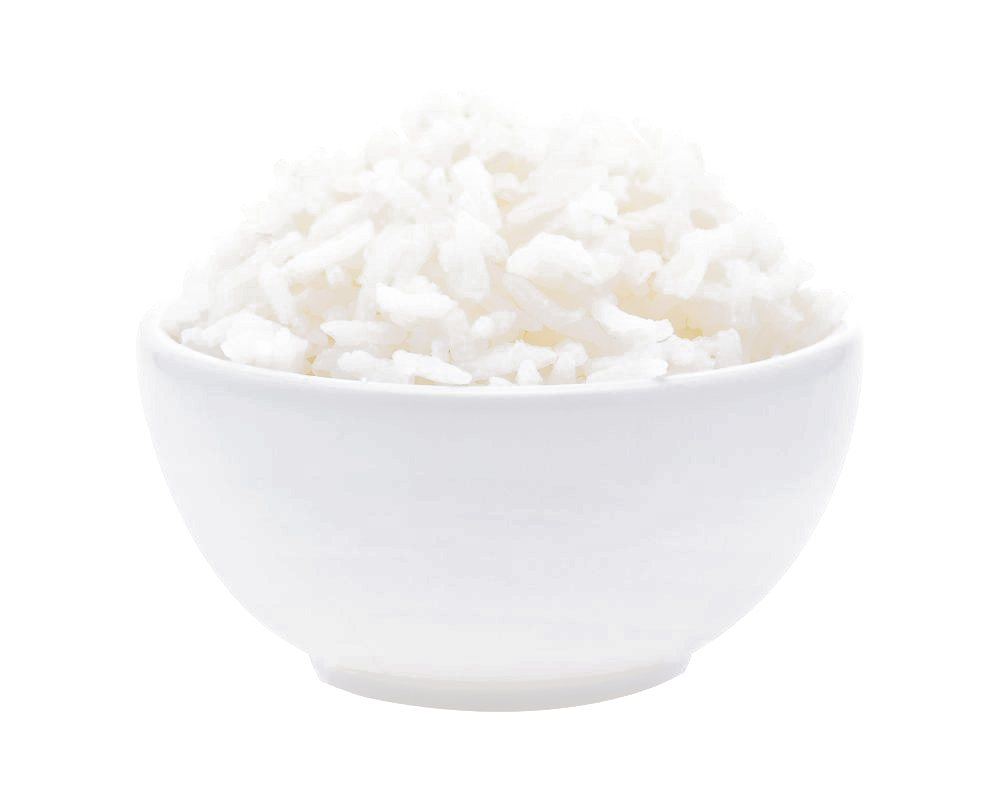
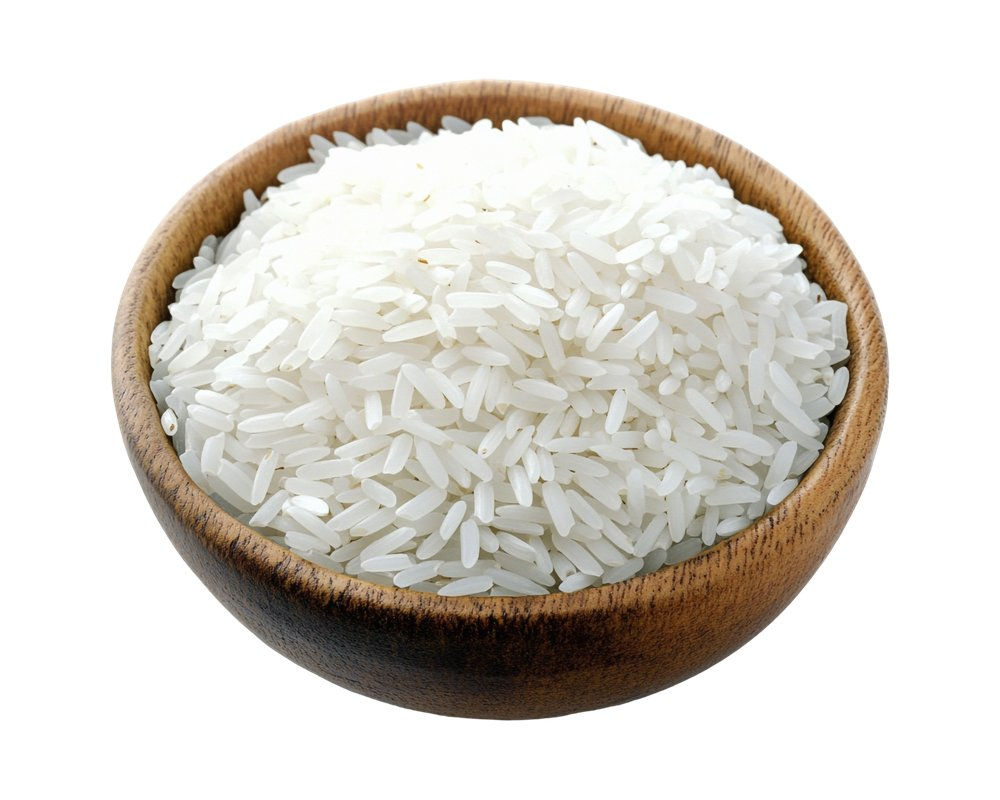
Foods: new photo for Rice
A wooden bowl of white rice, cut out from the Magnific free PSD by tohamina
(picked by the app owner; credit added) and placed on white like the other
single-food photos.

Claude-Session: https://claude.ai/code/session_01Hj6QJBTm6LNjTnyKhFQZB8

diff --git a/docs/photo-credits.md b/docs/photo-credits.md
@@ -251,49 +251,49 @@ Bundled in `assets/images/foods/` and registered in
 `src/features/foods/food-photos.ts`. Single foods on white, licensed through the
 app owner's paid Magnific (formerly Freepik) account and fetched with its API.
 
-| Photo                 | Source                           | Author           | Link                                                                                                                                                          | License                  | Added      |
-| --------------------- | -------------------------------- | ---------------- | ------------------------------------------------------------------------------------------------------------------------------------------------------------- | ------------------------ | ---------- |
-| food-sweet-potato     | Magnific (magnific.com), via API | New Africa       | https://www.magnific.com/premium-photo/fresh-raw-sweet-potato-isolated-white_416907908.htm                                                                    | Magnific Premium license | 2026-10-13 |
-| food-carrot           | Magnific (magnific.com), via API | rakibofficealbd  | https://www.magnific.com/premium-photo/single-fresh-orange-carrot-isolated-white-background-healthy-food-photography_429212493.htm                            | Magnific Premium license | 2026-10-13 |
-| food-broccoli         | Magnific (magnific.com), via API | irinafischer     | https://www.magnific.com/premium-photo/broccoli-green-florets-photography-isolated-white-background-clipping-path-original-shadowxa_374081813.htm             | Magnific Premium license | 2026-10-13 |
-| food-peas             | Magnific (magnific.com), via API | pakhnyushchyy    | https://www.magnific.com/premium-photo/peas_36433158.htm                                                                                                      | Magnific Premium license | 2026-10-13 |
-| food-spinach          | Magnific (magnific.com), via API | pixel-shot.com   | https://www.magnific.com/premium-photo/fresh-spinach-leaves-white-background_38929601.htm                                                                     | Magnific Premium license | 2026-10-13 |
-| food-zucchini         | Magnific (magnific.com), via API | pakhnyushchyy    | https://www.magnific.com/premium-photo/cheap-restaurant_37488885.htm                                                                                          | Magnific Premium license | 2026-10-13 |
-| food-butternut-squash | Magnific (magnific.com), via API | gorielov         | https://www.magnific.com/premium-photo/pumpkin_40350147.htm                                                                                                   | Magnific Premium license | 2026-10-13 |
-| food-green-beans      | Magnific (magnific.com), via API | pixel-shot.com   | https://www.magnific.com/premium-photo/french-beans-isolated-white_88016321.htm                                                                               | Magnific Premium license | 2026-10-13 |
-| food-cauliflower      | Magnific (magnific.com), via API | pixel-shot.com   | https://www.magnific.com/premium-photo/fresh-cauliflower-isolated-white_423805386.htm                                                                         | Magnific Premium license | 2026-10-13 |
-| food-kale             | Magnific (magnific.com), via API | kufotos          | https://www.magnific.com/premium-photo/fresh-cale-lettuce-leaf-white-isolated-background-vegetarian-dietary-healthy-food-product_24766655.htm                 | Magnific Premium license | 2026-10-13 |
-| food-parsnips         | Magnific (magnific.com), via API | picturepartners  | https://www.magnific.com/premium-photo/whole-fresh-parsnips-pastinaca-sativa-isolated-white-background_53376391.htm                                           | Magnific Premium license | 2026-10-13 |
-| food-haricots-verts   | Magnific (magnific.com), via API | AI Artwork       | https://www.magnific.com/premium-photo/fresh-green-beans-thin-green-isolated-white-background_250224627.htm                                                   | Magnific Premium license | 2026-10-13 |
-| food-avocado          | Magnific (magnific.com), via API | filistimlyanin   | https://www.magnific.com/premium-photo/collection-avocados-isolated-white-background_51104783.htm                                                             | Magnific Premium license | 2026-10-13 |
-| food-banana           | Magnific (magnific.com), via API | photolink1       | https://www.magnific.com/premium-photo/bananas_387553670.htm                                                                                                  | Magnific Premium license | 2026-10-13 |
-| food-apple            | Magnific (magnific.com), via API | dwianggastocks   | https://www.magnific.com/premium-photo/fresh-organic-red-apple-delicious-fruit-side-view-isolated-white-background-clipping-path_138953129.htm                | Magnific Premium license | 2026-10-13 |
-| food-pear             | Magnific (magnific.com), via API | pixel-shot.com   | https://www.magnific.com/premium-photo/ripe-pear-isolated-white_37377564.htm                                                                                  | Magnific Premium license | 2026-10-13 |
-| food-blueberries      | Magnific (magnific.com), via API | meimanlifestore  | https://www.magnific.com/premium-photo/blueberries-isolated-white-background_366319791.htm                                                                    | Magnific Premium license | 2026-10-13 |
-| food-strawberries     | Magnific (magnific.com), via API | a_a_88           | https://www.magnific.com/premium-photo/bunch-tasty-juicy-red-strawberries-amount-four-pieces-white-background_254496117.htm                                   | Magnific Premium license | 2026-10-13 |
-| food-mango            | Magnific (magnific.com), via API | Twenty20         | https://www.magnific.com/premium-photo/mango_35376035.htm                                                                                                     | Magnific Premium license | 2026-10-13 |
-| food-peach            | Magnific (magnific.com), via API | Azur             | https://www.magnific.com/premium-photo/whole-pitted-peach-with-bright-surface-white-background_272929017.htm                                                  | Magnific Premium license | 2026-10-13 |
-| food-cherries         | Magnific (magnific.com), via API | photolink1       | https://www.magnific.com/premium-photo/sweet-cherry-isolated-white_22342948.htm                                                                               | Magnific Premium license | 2026-10-13 |
-| food-prunes           | Magnific (magnific.com), via API | pakhnyushchyy    | https://www.magnific.com/premium-photo/dried-plum_39222936.htm                                                                                                | Magnific Premium license | 2026-10-13 |
-| food-egg              | Magnific (magnific.com), via API | driashkin        | https://www.magnific.com/premium-photo/four-chicken-eggs-white-background-largly_25925793.htm                                                                 | Magnific Premium license | 2026-10-13 |
-| food-chicken          | Magnific (magnific.com), via API | super            | https://www.magnific.com/premium-photo/raw-chicken-fillet-isolated-white-background-perfectly-retouched-full-depth-field-photo-top-view-flat-lay_25765086.htm | Magnific Premium license | 2026-10-13 |
-| food-beef             | Magnific (magnific.com), via API | Twenty20         | https://www.magnific.com/premium-photo/raw-beef-meat_35555577.htm                                                                                             | Magnific Premium license | 2026-10-13 |
-| food-turkey           | Magnific (magnific.com), via API | user6170755      | https://www.magnific.com/premium-photo/raw-whole-big-turkey-breast-fillet-high-quality-isolate-white-background_63024100.htm                                  | Magnific Premium license | 2026-10-13 |
-| food-salmon           | Magnific (magnific.com), via API | stokkete         | https://www.magnific.com/premium-photo/close-up-salmon-fillet_35865645.htm                                                                                    | Magnific Premium license | 2026-10-13 |
-| food-shrimp           | Magnific (magnific.com), via API | user25234940     | https://www.magnific.com/premium-photo/fresh-shrimp-prawn-isolated-white-background_26304187.htm                                                              | Magnific Premium license | 2026-10-13 |
-| food-lentils          | Magnific (magnific.com), via API | AndreyStar       | https://www.magnific.com/premium-photo/lentils-isolated-white-background_33230725.htm                                                                         | Magnific Premium license | 2026-10-13 |
-| food-black-beans      | Magnific (magnific.com), via API | da-ga            | https://www.magnific.com/premium-photo/black-beans-isolated-white-background_28852402.htm                                                                     | Magnific Premium license | 2026-10-13 |
-| food-tofu             | Magnific (magnific.com), via API | maryrkoch        | https://www.magnific.com/premium-photo/high-quality-tofu-block-with-small-cubes-isolated-white-background-perfect-vegan-veget_341404472.htm                   | Magnific Premium license | 2026-10-13 |
-| food-peanut-butter    | Magnific (magnific.com), via API | KSerg            | https://www.magnific.com/premium-photo/small-bowl-filled-with-smooth-peanut-butter-spread-isolated-white-background-highlighting_401110400.htm                | Magnific Premium license | 2026-10-13 |
-| food-almond-butter    | Magnific (magnific.com), via API | nugrahithaaditya | https://www.magnific.com/premium-photo/almond-butter-photo-white-isolated-background-ar-32-style-raw-v-6-job-id-d99d08bf58054929abcb26dd_270330255.htm        | Magnific Premium license | 2026-10-13 |
-| food-tahini           | Magnific (magnific.com), via API | AI Artwork       | https://www.magnific.com/premium-photo/yummy-tahini-isolated-white-background_301388773.htm                                                                   | Magnific Premium license | 2026-10-13 |
-| food-red-lentils      | Magnific (magnific.com), via API | fernatiroman     | https://www.magnific.com/premium-photo/small-pile-red-lentils-white-background_433510006.htm                                                                  | Magnific Premium license | 2026-10-13 |
-| food-infant-cereal    | Magnific (magnific.com), via API | pixel-shot.com   | https://www.magnific.com/premium-photo/bowl-with-baby-food-white-background_423593301.htm                                                                     | Magnific Premium license | 2026-10-13 |
-| food-oats             | Magnific (magnific.com), via API | Twenty20         | https://www.magnific.com/premium-photo/oatmeal-flakes_35436975.htm                                                                                            | Magnific Premium license | 2026-10-13 |
-| food-rice             | Magnific (magnific.com), via API | user25234940     | https://www.magnific.com/premium-photo/bowl-full-rice-isolated-white-background_19017643.htm                                                                  | Magnific Premium license | 2026-10-13 |
-| food-pasta            | Magnific (magnific.com), via API | bokodi           | https://www.magnific.com/premium-photo/penne-raw-pasta-isolated-white_27760809.htm                                                                            | Magnific Premium license | 2026-10-13 |
-| food-bread            | Magnific (magnific.com), via API | valkantina       | https://www.magnific.com/premium-photo/loaf-bread-isolated-white-background-piece-homemade-wheat-bread_248932962.htm                                          | Magnific Premium license | 2026-10-13 |
-| food-brown-rice       | Magnific (magnific.com), via API | Hashmi3          | https://www.magnific.com/premium-photo/delicious-bowl-cooked-brown-rice-white-background_294580597.htm                                                        | Magnific Premium license | 2026-10-13 |
-| food-quinoa           | Magnific (magnific.com), via API | voyager_human    | https://www.magnific.com/premium-photo/heap-organic-white-quinoa-healthy-eating-concept-top-view-isolated-white-background_238574260.htm                      | Magnific Premium license | 2026-10-13 |
-| food-yogurt           | Magnific (magnific.com), via API | auyobmasih-1     | https://www.magnific.com/premium-photo/bowl-creamy-white-yogurt-isolated-white-background_425866054.htm                                                       | Magnific Premium license | 2026-10-13 |
-| food-cheese           | Magnific (magnific.com), via API | mureli           | https://www.magnific.com/premium-photo/cheddar-cheese-white-background-ai-generated_41959263.htm                                                              | Magnific Premium license | 2026-10-13 |
+| Photo                 | Source                                                                                     | Author           | Link                                                                                                                                                          | License                                 | Added      |
+| --------------------- | ------------------------------------------------------------------------------------------ | ---------------- | ------------------------------------------------------------------------------------------------------------------------------------------------------------- | --------------------------------------- | ---------- |
+| food-sweet-potato     | Magnific (magnific.com), via API                                                           | New Africa       | https://www.magnific.com/premium-photo/fresh-raw-sweet-potato-isolated-white_416907908.htm                                                                    | Magnific Premium license                | 2026-10-13 |
+| food-carrot           | Magnific (magnific.com), via API                                                           | rakibofficealbd  | https://www.magnific.com/premium-photo/single-fresh-orange-carrot-isolated-white-background-healthy-food-photography_429212493.htm                            | Magnific Premium license                | 2026-10-13 |
+| food-broccoli         | Magnific (magnific.com), via API                                                           | irinafischer     | https://www.magnific.com/premium-photo/broccoli-green-florets-photography-isolated-white-background-clipping-path-original-shadowxa_374081813.htm             | Magnific Premium license                | 2026-10-13 |
+| food-peas             | Magnific (magnific.com), via API                                                           | pakhnyushchyy    | https://www.magnific.com/premium-photo/peas_36433158.htm                                                                                                      | Magnific Premium license                | 2026-10-13 |
+| food-spinach          | Magnific (magnific.com), via API                                                           | pixel-shot.com   | https://www.magnific.com/premium-photo/fresh-spinach-leaves-white-background_38929601.htm                                                                     | Magnific Premium license                | 2026-10-13 |
+| food-zucchini         | Magnific (magnific.com), via API                                                           | pakhnyushchyy    | https://www.magnific.com/premium-photo/cheap-restaurant_37488885.htm                                                                                          | Magnific Premium license                | 2026-10-13 |
+| food-butternut-squash | Magnific (magnific.com), via API                                                           | gorielov         | https://www.magnific.com/premium-photo/pumpkin_40350147.htm                                                                                                   | Magnific Premium license                | 2026-10-13 |
+| food-green-beans      | Magnific (magnific.com), via API                                                           | pixel-shot.com   | https://www.magnific.com/premium-photo/french-beans-isolated-white_88016321.htm                                                                               | Magnific Premium license                | 2026-10-13 |
+| food-cauliflower      | Magnific (magnific.com), via API                                                           | pixel-shot.com   | https://www.magnific.com/premium-photo/fresh-cauliflower-isolated-white_423805386.htm                                                                         | Magnific Premium license                | 2026-10-13 |
+| food-kale             | Magnific (magnific.com), via API                                                           | kufotos          | https://www.magnific.com/premium-photo/fresh-cale-lettuce-leaf-white-isolated-background-vegetarian-dietary-healthy-food-product_24766655.htm                 | Magnific Premium license                | 2026-10-13 |
+| food-parsnips         | Magnific (magnific.com), via API                                                           | picturepartners  | https://www.magnific.com/premium-photo/whole-fresh-parsnips-pastinaca-sativa-isolated-white-background_53376391.htm                                           | Magnific Premium license                | 2026-10-13 |
+| food-haricots-verts   | Magnific (magnific.com), via API                                                           | AI Artwork       | https://www.magnific.com/premium-photo/fresh-green-beans-thin-green-isolated-white-background_250224627.htm                                                   | Magnific Premium license                | 2026-10-13 |
+| food-avocado          | Magnific (magnific.com), via API                                                           | filistimlyanin   | https://www.magnific.com/premium-photo/collection-avocados-isolated-white-background_51104783.htm                                                             | Magnific Premium license                | 2026-10-13 |
+| food-banana           | Magnific (magnific.com), via API                                                           | photolink1       | https://www.magnific.com/premium-photo/bananas_387553670.htm                                                                                                  | Magnific Premium license                | 2026-10-13 |
+| food-apple            | Magnific (magnific.com), via API                                                           | dwianggastocks   | https://www.magnific.com/premium-photo/fresh-organic-red-apple-delicious-fruit-side-view-isolated-white-background-clipping-path_138953129.htm                | Magnific Premium license                | 2026-10-13 |
+| food-pear             | Magnific (magnific.com), via API                                                           | pixel-shot.com   | https://www.magnific.com/premium-photo/ripe-pear-isolated-white_37377564.htm                                                                                  | Magnific Premium license                | 2026-10-13 |
+| food-blueberries      | Magnific (magnific.com), via API                                                           | meimanlifestore  | https://www.magnific.com/premium-photo/blueberries-isolated-white-background_366319791.htm                                                                    | Magnific Premium license                | 2026-10-13 |
+| food-strawberries     | Magnific (magnific.com), via API                                                           | a_a_88           | https://www.magnific.com/premium-photo/bunch-tasty-juicy-red-strawberries-amount-four-pieces-white-background_254496117.htm                                   | Magnific Premium license                | 2026-10-13 |
+| food-mango            | Magnific (magnific.com), via API                                                           | Twenty20         | https://www.magnific.com/premium-photo/mango_35376035.htm                                                                                                     | Magnific Premium license                | 2026-10-13 |
+| food-peach            | Magnific (magnific.com), via API                                                           | Azur             | https://www.magnific.com/premium-photo/whole-pitted-peach-with-bright-surface-white-background_272929017.htm                                                  | Magnific Premium license                | 2026-10-13 |
+| food-cherries         | Magnific (magnific.com), via API                                                           | photolink1       | https://www.magnific.com/premium-photo/sweet-cherry-isolated-white_22342948.htm                                                                               | Magnific Premium license                | 2026-10-13 |
+| food-prunes           | Magnific (magnific.com), via API                                                           | pakhnyushchyy    | https://www.magnific.com/premium-photo/dried-plum_39222936.htm                                                                                                | Magnific Premium license                | 2026-10-13 |
+| food-egg              | Magnific (magnific.com), via API                                                           | driashkin        | https://www.magnific.com/premium-photo/four-chicken-eggs-white-background-largly_25925793.htm                                                                 | Magnific Premium license                | 2026-10-13 |
+| food-chicken          | Magnific (magnific.com), via API                                                           | super            | https://www.magnific.com/premium-photo/raw-chicken-fillet-isolated-white-background-perfectly-retouched-full-depth-field-photo-top-view-flat-lay_25765086.htm | Magnific Premium license                | 2026-10-13 |
+| food-beef             | Magnific (magnific.com), via API                                                           | Twenty20         | https://www.magnific.com/premium-photo/raw-beef-meat_35555577.htm                                                                                             | Magnific Premium license                | 2026-10-13 |
+| food-turkey           | Magnific (magnific.com), via API                                                           | user6170755      | https://www.magnific.com/premium-photo/raw-whole-big-turkey-breast-fillet-high-quality-isolate-white-background_63024100.htm                                  | Magnific Premium license                | 2026-10-13 |
+| food-salmon           | Magnific (magnific.com), via API                                                           | stokkete         | https://www.magnific.com/premium-photo/close-up-salmon-fillet_35865645.htm                                                                                    | Magnific Premium license                | 2026-10-13 |
+| food-shrimp           | Magnific (magnific.com), via API                                                           | user25234940     | https://www.magnific.com/premium-photo/fresh-shrimp-prawn-isolated-white-background_26304187.htm                                                              | Magnific Premium license                | 2026-10-13 |
+| food-lentils          | Magnific (magnific.com), via API                                                           | AndreyStar       | https://www.magnific.com/premium-photo/lentils-isolated-white-background_33230725.htm                                                                         | Magnific Premium license                | 2026-10-13 |
+| food-black-beans      | Magnific (magnific.com), via API                                                           | da-ga            | https://www.magnific.com/premium-photo/black-beans-isolated-white-background_28852402.htm                                                                     | Magnific Premium license                | 2026-10-13 |
+| food-tofu             | Magnific (magnific.com), via API                                                           | maryrkoch        | https://www.magnific.com/premium-photo/high-quality-tofu-block-with-small-cubes-isolated-white-background-perfect-vegan-veget_341404472.htm                   | Magnific Premium license                | 2026-10-13 |
+| food-peanut-butter    | Magnific (magnific.com), via API                                                           | KSerg            | https://www.magnific.com/premium-photo/small-bowl-filled-with-smooth-peanut-butter-spread-isolated-white-background-highlighting_401110400.htm                | Magnific Premium license                | 2026-10-13 |
+| food-almond-butter    | Magnific (magnific.com), via API                                                           | nugrahithaaditya | https://www.magnific.com/premium-photo/almond-butter-photo-white-isolated-background-ar-32-style-raw-v-6-job-id-d99d08bf58054929abcb26dd_270330255.htm        | Magnific Premium license                | 2026-10-13 |
+| food-tahini           | Magnific (magnific.com), via API                                                           | AI Artwork       | https://www.magnific.com/premium-photo/yummy-tahini-isolated-white-background_301388773.htm                                                                   | Magnific Premium license                | 2026-10-13 |
+| food-red-lentils      | Magnific (magnific.com), via API                                                           | fernatiroman     | https://www.magnific.com/premium-photo/small-pile-red-lentils-white-background_433510006.htm                                                                  | Magnific Premium license                | 2026-10-13 |
+| food-infant-cereal    | Magnific (magnific.com), via API                                                           | pixel-shot.com   | https://www.magnific.com/premium-photo/bowl-with-baby-food-white-background_423593301.htm                                                                     | Magnific Premium license                | 2026-10-13 |
+| food-oats             | Magnific (magnific.com), via API                                                           | Twenty20         | https://www.magnific.com/premium-photo/oatmeal-flakes_35436975.htm                                                                                            | Magnific Premium license                | 2026-10-13 |
+| food-rice             | Magnific (magnific.com), supplied by the app owner (cut out from the PSD, placed on white) | tohamina         | https://www.magnific.com/free-psd/closeup-wooden-bowl-filled-with-cooked-white-rice_408645064.htm                                                             | Magnific free license (credit required) | 2026-10-19 |
+| food-pasta            | Magnific (magnific.com), via API                                                           | bokodi           | https://www.magnific.com/premium-photo/penne-raw-pasta-isolated-white_27760809.htm                                                                            | Magnific Premium license                | 2026-10-13 |
+| food-bread            | Magnific (magnific.com), via API                                                           | valkantina       | https://www.magnific.com/premium-photo/loaf-bread-isolated-white-background-piece-homemade-wheat-bread_248932962.htm                                          | Magnific Premium license                | 2026-10-13 |
+| food-brown-rice       | Magnific (magnific.com), via API                                                           | Hashmi3          | https://www.magnific.com/premium-photo/delicious-bowl-cooked-brown-rice-white-background_294580597.htm                                                        | Magnific Premium license                | 2026-10-13 |
+| food-quinoa           | Magnific (magnific.com), via API                                                           | voyager_human    | https://www.magnific.com/premium-photo/heap-organic-white-quinoa-healthy-eating-concept-top-view-isolated-white-background_238574260.htm                      | Magnific Premium license                | 2026-10-13 |
+| food-yogurt           | Magnific (magnific.com), via API                                                           | auyobmasih-1     | https://www.magnific.com/premium-photo/bowl-creamy-white-yogurt-isolated-white-background_425866054.htm                                                       | Magnific Premium license                | 2026-10-13 |
+| food-cheese           | Magnific (magnific.com), via API                                                           | mureli           | https://www.magnific.com/premium-photo/cheddar-cheese-white-background-ai-generated_41959263.htm                                                              | Magnific Premium license                | 2026-10-13 |
